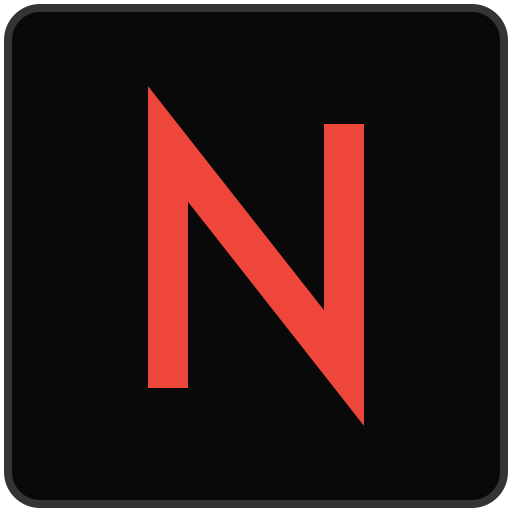
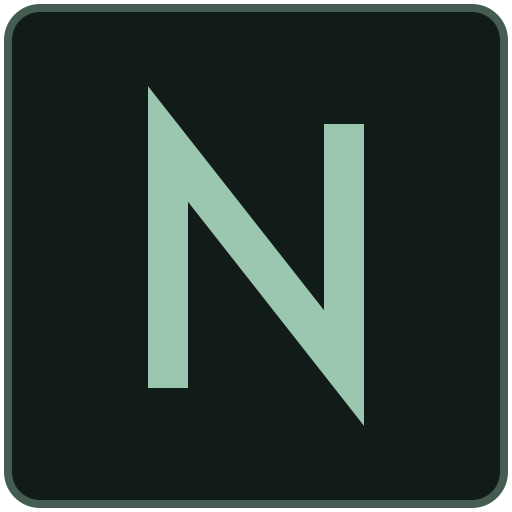
Pair sage accents with a pine-charcoal background

Changed region(s): [[0.2812, 0.1562, 0.7188, 0.8438], [0.0, 0.0, 1.0, 1.0]]

diff --git a/index.html b/index.html
@@ -7,7 +7,7 @@
     <title>Najimdeen Ajadi — Frontend Engineer</title>
     <meta name="description" content="Najimdeen Ajadi is a frontend engineer and Cyber Security Science student at LAUTECH in Nigeria. Explore selected web projects, experience, and résumé.">
     <meta name="author" content="Najimdeen Ajadi">
-    <meta name="theme-color" content="#090909">
+    <meta name="theme-color" content="#111B18">
     <meta name="color-scheme" content="dark">
     <link rel="canonical" href="https://www.najimdeenajadi.xyz/">
 
@@ -25,11 +25,11 @@
     <meta name="twitter:description" content="Frontend engineer and Cyber Security Science student at LAUTECH in Nigeria. Selected projects, experience, and résumé.">
     <meta name="twitter:image" content="https://www.najimdeenajadi.xyz/og.png">
 
-    <link rel="icon" type="image/svg+xml" href="logo.svg?v=4">
-    <link rel="apple-touch-icon" href="img/apple-touch-icon.png">
+    <link rel="icon" type="image/svg+xml" href="logo.svg?v=5">
+    <link rel="apple-touch-icon" href="img/apple-touch-icon.png?v=5">
     <link rel="manifest" href="site.webmanifest">
     <link rel="preload" href="fonts/PlusJakartaSans-Variable.woff2" as="font" type="font/woff2" crossorigin>
-    <link rel="stylesheet" href="css/styles.css?v=5">
+    <link rel="stylesheet" href="css/styles.css?v=6">
 
     <script type="application/ld+json">
     {

diff --git a/about.html b/about.html
@@ -7,7 +7,7 @@
     <title>About — Najimdeen Ajadi</title>
     <meta name="description" content="Najimdeen Ajadi studies Cyber Security Science at LAUTECH and works across frontend engineering, security analysis and ICT support.">
     <meta name="author" content="Najimdeen Ajadi">
-    <meta name="theme-color" content="#090909">
+    <meta name="theme-color" content="#111B18">
     <meta name="color-scheme" content="dark">
     <link rel="canonical" href="https://www.najimdeenajadi.xyz/about.html">
 
@@ -25,11 +25,11 @@
     <meta name="twitter:description" content="Najimdeen Ajadi studies Cyber Security Science at LAUTECH and works across frontend engineering, security analysis and ICT support.">
     <meta name="twitter:image" content="https://www.najimdeenajadi.xyz/og.png">
 
-    <link rel="icon" type="image/svg+xml" href="logo.svg?v=4">
-    <link rel="apple-touch-icon" href="img/apple-touch-icon.png">
+    <link rel="icon" type="image/svg+xml" href="logo.svg?v=5">
+    <link rel="apple-touch-icon" href="img/apple-touch-icon.png?v=5">
     <link rel="manifest" href="site.webmanifest">
     <link rel="preload" href="fonts/PlusJakartaSans-Variable.woff2" as="font" type="font/woff2" crossorigin>
-    <link rel="stylesheet" href="css/styles.css?v=5">
+    <link rel="stylesheet" href="css/styles.css?v=6">
 </head>
 
 <body>

diff --git a/contact.html b/contact.html
@@ -7,7 +7,7 @@
     <title>Contact — Najimdeen Ajadi</title>
     <meta name="description" content="Get in touch with Najimdeen Ajadi about a project, a security question, or a role — email is the fastest way to reach him.">
     <meta name="author" content="Najimdeen Ajadi">
-    <meta name="theme-color" content="#090909">
+    <meta name="theme-color" content="#111B18">
     <meta name="color-scheme" content="dark">
     <link rel="canonical" href="https://www.najimdeenajadi.xyz/contact.html">
 
@@ -25,11 +25,11 @@
     <meta name="twitter:description" content="Get in touch with Najimdeen Ajadi about a project, a security question, or a role — email is the fastest way to reach him.">
     <meta name="twitter:image" content="https://www.najimdeenajadi.xyz/og.png">
 
-    <link rel="icon" type="image/svg+xml" href="logo.svg?v=4">
-    <link rel="apple-touch-icon" href="img/apple-touch-icon.png">
+    <link rel="icon" type="image/svg+xml" href="logo.svg?v=5">
+    <link rel="apple-touch-icon" href="img/apple-touch-icon.png?v=5">
     <link rel="manifest" href="site.webmanifest">
     <link rel="preload" href="fonts/PlusJakartaSans-Variable.woff2" as="font" type="font/woff2" crossorigin>
-    <link rel="stylesheet" href="css/styles.css?v=5">
+    <link rel="stylesheet" href="css/styles.css?v=6">
 </head>
 
 <body>

diff --git a/services.html b/services.html
@@ -7,7 +7,7 @@
     <title>Services — Najimdeen Ajadi</title>
     <meta name="description" content="Frontend engineering, cybersecurity auditing, web scraping and automation, and Web3 interfaces from Najimdeen Ajadi.">
     <meta name="author" content="Najimdeen Ajadi">
-    <meta name="theme-color" content="#090909">
+    <meta name="theme-color" content="#111B18">
     <meta name="color-scheme" content="dark">
     <link rel="canonical" href="https://www.najimdeenajadi.xyz/services.html">
 
@@ -25,11 +25,11 @@
     <meta name="twitter:description" content="Frontend engineering, cybersecurity auditing, web scraping and automation, and Web3 interfaces from Najimdeen Ajadi.">
     <meta name="twitter:image" content="https://www.najimdeenajadi.xyz/og.png">
 
-    <link rel="icon" type="image/svg+xml" href="logo.svg?v=4">
-    <link rel="apple-touch-icon" href="img/apple-touch-icon.png">
+    <link rel="icon" type="image/svg+xml" href="logo.svg?v=5">
+    <link rel="apple-touch-icon" href="img/apple-touch-icon.png?v=5">
     <link rel="manifest" href="site.webmanifest">
     <link rel="preload" href="fonts/PlusJakartaSans-Variable.woff2" as="font" type="font/woff2" crossorigin>
-    <link rel="stylesheet" href="css/styles.css?v=5">
+    <link rel="stylesheet" href="css/styles.css?v=6">
 </head>
 
 <body>

diff --git a/projects.html b/projects.html
@@ -7,7 +7,7 @@
     <title>Projects — Najimdeen Ajadi</title>
     <meta name="description" content="Selected projects by Najimdeen Ajadi — HAQI, CC-GEN, Idea Lab and Chronos, each built end to end and live.">
     <meta name="author" content="Najimdeen Ajadi">
-    <meta name="theme-color" content="#090909">
+    <meta name="theme-color" content="#111B18">
     <meta name="color-scheme" content="dark">
     <link rel="canonical" href="https://www.najimdeenajadi.xyz/projects.html">
 
@@ -25,11 +25,11 @@
     <meta name="twitter:description" content="Selected projects by Najimdeen Ajadi — HAQI, CC-GEN, Idea Lab and Chronos, each built end to end and live.">
     <meta name="twitter:image" content="https://www.najimdeenajadi.xyz/og.png">
 
-    <link rel="icon" type="image/svg+xml" href="logo.svg?v=4">
-    <link rel="apple-touch-icon" href="img/apple-touch-icon.png">
+    <link rel="icon" type="image/svg+xml" href="logo.svg?v=5">
+    <link rel="apple-touch-icon" href="img/apple-touch-icon.png?v=5">
     <link rel="manifest" href="site.webmanifest">
     <link rel="preload" href="fonts/PlusJakartaSans-Variable.woff2" as="font" type="font/woff2" crossorigin>
-    <link rel="stylesheet" href="css/styles.css?v=5">
+    <link rel="stylesheet" href="css/styles.css?v=6">
 </head>
 
 <body>

diff --git a/css/styles.css b/css/styles.css
@@ -10,16 +10,16 @@
 
 :root {
     color-scheme: dark;
-    --bg: #090909;
-    --panel: #0f0f0f;
-    --panel-2: #131313;
-    --line: #282828;
-    --line-strong: #3a3a3a;
+    --bg: #111b18;
+    --panel: #182420;
+    --panel-2: #1e2d27;
+    --line: #2e4038;
+    --line-strong: #455c50;
     --text: #f1efe9;
     --muted: #95928b;
-    --accent: #ef463b;
-    --accent-dark: #d53b32;
-    --accent-soft: rgba(239, 70, 59, 0.1);
+    --accent: #9bc6b0;
+    --accent-dark: #81af98;
+    --accent-soft: rgba(155, 198, 176, 0.13);
     --font-sans: 'Plus Jakarta Sans', ui-sans-serif, system-ui, -apple-system, 'Segoe UI', sans-serif;
     --font-mono: ui-monospace, SFMono-Regular, 'SF Mono', Menlo, Consolas, monospace;
     --fs-xs: 0.75rem;
@@ -559,7 +559,7 @@ p {
     overflow: hidden;
     border-bottom: 1px solid var(--line);
     border-radius: var(--radius) var(--radius) 0 0;
-    background: #0b0b0b;
+    background: var(--panel-2);
 }
 
 .project--featured .project__media {
@@ -844,9 +844,9 @@ p {
 .field textarea {
     width: 100%;
     padding: 0.8rem 0.85rem;
-    border: 1px solid #66635e;
+    border: 1px solid #65786d;
     border-radius: var(--radius);
-    background: #0b0b0b;
+    background: var(--bg);
     font-size: 1rem;
     transition: border-color 160ms linear;
 }

diff --git a/404.html b/404.html
@@ -6,10 +6,10 @@
     <meta name="viewport" content="width=device-width, initial-scale=1">
     <title>404 — Page not found | Najimdeen Ajadi</title>
     <meta name="robots" content="noindex">
-    <meta name="theme-color" content="#090909">
-    <link rel="icon" type="image/svg+xml" href="logo.svg?v=4">
+    <meta name="theme-color" content="#111B18">
+    <link rel="icon" type="image/svg+xml" href="logo.svg?v=5">
     <link rel="preload" href="fonts/PlusJakartaSans-Variable.woff2" as="font" type="font/woff2" crossorigin>
-    <link rel="stylesheet" href="css/styles.css?v=5">
+    <link rel="stylesheet" href="css/styles.css?v=6">
     <link rel="stylesheet" href="css/404.css">
 </head>
 
